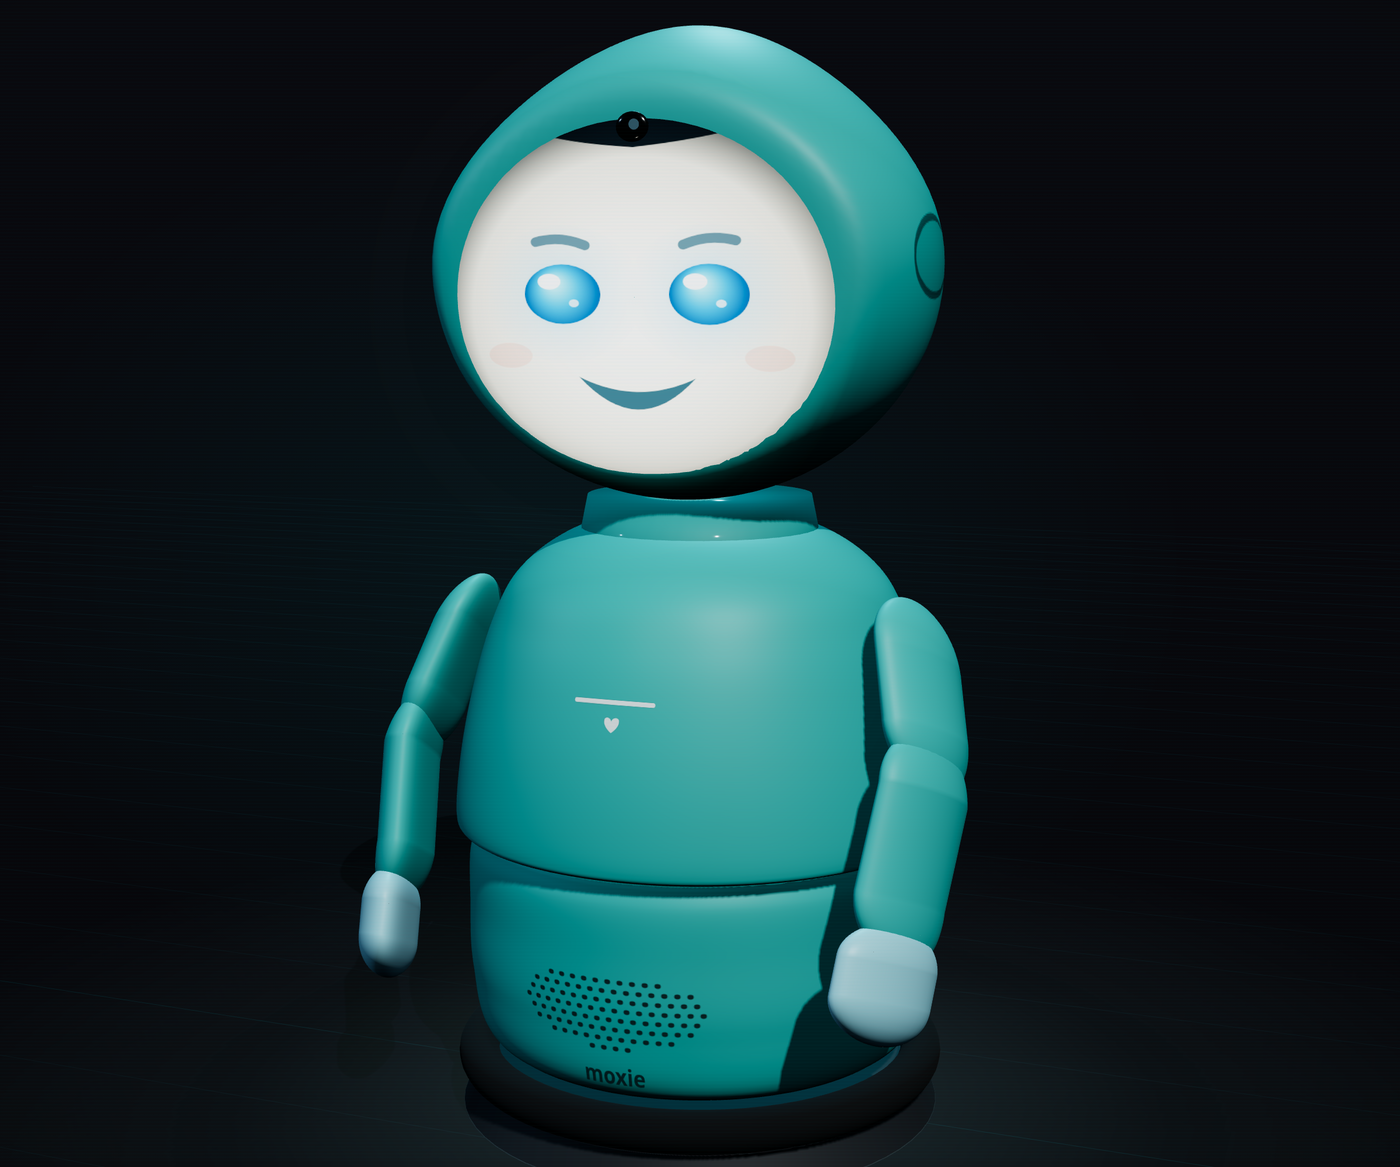
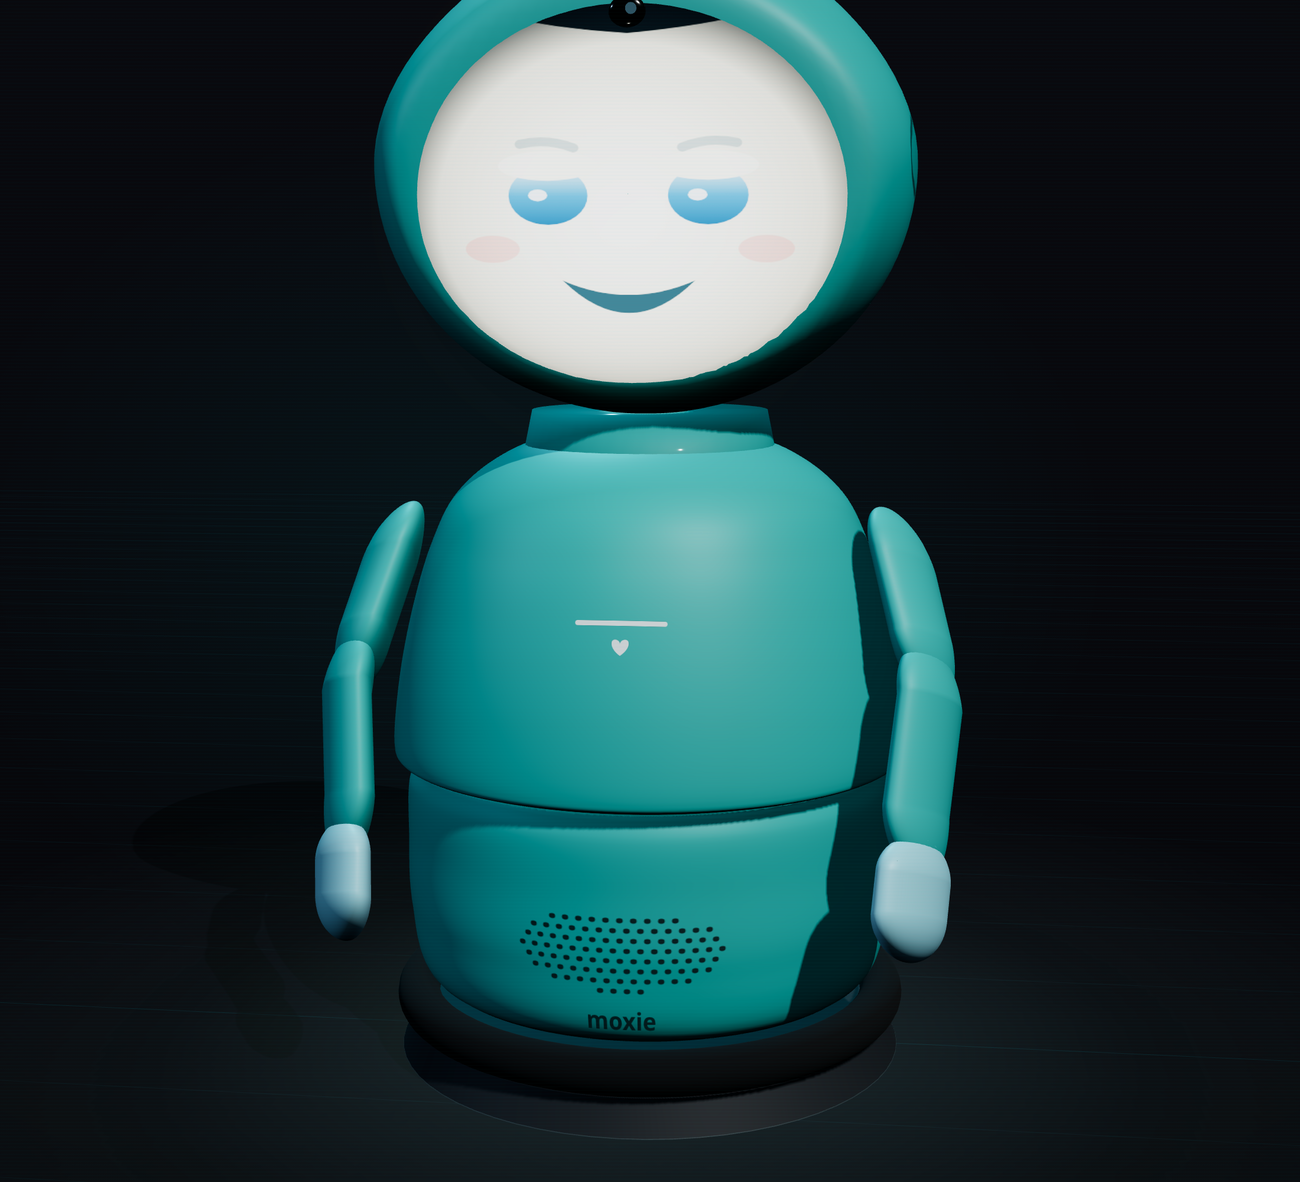
sim: genuinely cute face, glassy floating HUD, lean only the upper torso, cache-bust
Big pass from a lot of feedback.

Face — was reading as a creepy stare; now genuinely cute:
- Soft, warm, gently-LIDDED eyes (top ~22% covered by the screen colour) so Moxie
  looks kind, not wide-eyed; matte (no glow halo); one soft shine.
- Eyebrows OFF by default (prominent brows read as stern) — only shown for
  expressions that ask for them (sleep/sad/surprised/thinking).
- Soft rosy cheeks always; gentle smile.

Layout — controls now float OVER the 3D as glass, not opaque columns:
- #panel is a floating GLASS card (low-opacity + blur + rounded + margin) so the
  robot shows through; portrait is a glassy bottom drawer capped at ~40% height so
  Moxie stays visible above it.
- Camera pan RE-ENABLED (disabling it hid Moxie behind controls). Orbit still
  pivots on Moxie by default.
- Portrait: Moxie auto-centres in the space above the open drawer.

Model — body lean is anatomically correct again:
- The body mesh is SPLIT at the lean pivot. Only the UPPER torso (chest/arms/heart/
  head) tips; the LOWER torso (speaker + grille + moxie wordmark + base) stays
  planted. Both still breathe + yaw together. Fixes "lower torso leans".

Hub hero re-rendered CENTRED & front-facing with the new cute face (the default
3/4 camera had it off to the side).

Caching — the live moxie.js was current but cached 4h (Cloudflare default; the
/*.js glob never matched). App scripts get a one-time ?v cache-break in sim.html,
[…]

Changed region(s): [[0.2154, 0.0, 0.7385, 1.0]]

diff --git a/sim/web/moxie.js b/sim/web/moxie.js
@@ -103,10 +103,10 @@ const camera = new THREE.PerspectiveCamera(40, window.innerWidth / window.innerH
 camera.position.set(1.8, 2.1, 4.8);
 
 const controls = new OrbitControls(camera, renderer.domElement);
-controls.target.set(0, 1.15, 0);        // Moxie's centre — orbit always pivots here
+controls.target.set(0, 1.15, 0);        // Moxie's centre — orbit pivots here by default
 controls.enableDamping = true;
 controls.dampingFactor = 0.08;
-controls.enablePan = false;             // rotation stays centred on Moxie (no drift)
+controls.enablePan = true;              // let people reposition Moxie (e.g. out from behind a panel)
 controls.minDistance = 2.0;
 controls.maxDistance = 12.0;
 controls.maxPolarAngle = 1.48;
@@ -391,28 +391,47 @@ root.add(ring);
 const yawG = new THREE.Group();
 root.add(yawG);
 
-// The real robot's lean pivots ABOVE the speaker: the lower body (grille,
-// wordmark) stays upright while the torso above it tips. lowerG turns with the
-// body but never leans; leanG pivots at LEAN_PIVOT_Y, just above the grille.
-const LEAN_PIVOT_Y = 0.66;          // ABOVE the speaker, at the chest seam. The
-                                    // LOWER chest (speaker) stays planted; only the
-                                    // UPPER chest (arms, heart LED, head) leans.
-const lowerG = new THREE.Group();   // fixed lower section (yaws, never leans)
-yawG.add(lowerG);
+// Moxie's lean is a single joint ABOVE the speaker: only the UPPER torso (chest,
+// arms, heart, head) tips forward; the LOWER torso (speaker section + its grille
+// and wordmark) stays planted. So the body mesh is SPLIT at the pivot — lower on
+// a planted group, upper on the lean group. Both still breathe + yaw together.
+const LEAN_PIVOT_Y = 0.66;          // the chest seam, just above the speaker
 
-const leanG = new THREE.Group();
+const breatheG = new THREE.Group();          // liveness breathing (whole robot)
+yawG.add(breatheG);
+
+const lowerG = new THREE.Group();            // planted lower torso — breathes + yaws, NEVER leans
+breatheG.add(lowerG);
+
+const leanG = new THREE.Group();             // motor 6 — tips ONLY the upper torso
 leanG.position.y = LEAN_PIVOT_Y;
-yawG.add(leanG);
+breatheG.add(leanG);
 
-const breatheG = new THREE.Group();          // liveness: breathing scale/bob
-breatheG.position.y = -LEAN_PIVOT_Y;   // children keep their absolute Y
-leanG.add(breatheG);
+const upperG = new THREE.Group();            // carrier so upper parts keep their absolute Y
+upperG.position.y = -LEAN_PIVOT_Y;
+leanG.add(upperG);
 
-// Body cylinder
-const body = new THREE.Mesh(makeBodyGeometry(), shellMat);
-body.castShadow = true;
-body.receiveShadow = true;
-breatheG.add(body);
+// Split the lathe profile at the pivot; both halves share the seam radius so
+// they meet cleanly (Moxie has a real chest-divider seam right here).
+function bodyLatheFrom(profile) {
+  let g = new THREE.LatheGeometry(profile, 128);
+  g.deleteAttribute('uv'); g.deleteAttribute('normal');
+  g = mergeVertices(g, 1e-4); g.computeVertexNormals();
+  return g;
+}
+const seamR = bodyRadiusAt(LEAN_PIVOT_Y);
+const lowerProfile = bodyProfilePts.filter(p => p.y <= LEAN_PIVOT_Y)
+  .concat([new THREE.Vector2(seamR, LEAN_PIVOT_Y)]);
+const upperProfile = [new THREE.Vector2(seamR, LEAN_PIVOT_Y)]
+  .concat(bodyProfilePts.filter(p => p.y > LEAN_PIVOT_Y));
+
+const lowerBody = new THREE.Mesh(bodyLatheFrom(lowerProfile), shellMat);
+lowerBody.castShadow = true; lowerBody.receiveShadow = true;
+lowerG.add(lowerBody);
+
+const upperBody = new THREE.Mesh(bodyLatheFrom(upperProfile), shellMat);
+upperBody.castShadow = true; upperBody.receiveShadow = true;
+upperG.add(upperBody);
 
 // ---- Head: a large egg/teardrop sitting DIRECTLY on the body (no neck —
 //      the head's underside overlaps the body's rounded shoulder, leaving
@@ -438,9 +457,9 @@ const neck = new THREE.Mesh(neckGeo, new THREE.MeshPhysicalMaterial({
 neck.position.set(0, BODY_TOP - 0.05, 0);
 neck.castShadow = true;
 neck.receiveShadow = true;
-breatheG.add(neck);
+upperG.add(neck);
 
-breatheG.add(headTiltG);
+upperG.add(headTiltG);
 
 const headRollG = new THREE.Group();          // liveness-only curious head roll
 headTiltG.add(headRollG);
@@ -713,7 +732,7 @@ const grille = new THREE.Mesh(
   })
 );
 grille.position.set(0, 0.34, 0);
-breatheG.add(grille);    // printed on the body — breathes + tilts WITH it
+lowerG.add(grille);      // printed on the lower torso — planted, never leans
 
 // ---- `moxie` wordmark near the base ----
 
@@ -743,7 +762,7 @@ const wordmark = new THREE.Mesh(
   })
 );
 wordmark.position.set(0, 0.155, 0);
-breatheG.add(wordmark);  // printed on the body — breathes + tilts WITH it
+lowerG.add(wordmark);    // printed on the lower torso — planted, never leans
 
 // ---- Heart LED: a THIN white horizontal line with a TINY white heart
 //      directly beneath it, on the upper chest just under the head — a small,
@@ -803,11 +822,11 @@ const heart = new THREE.Mesh(
   heartMat);
 heart.position.set(0, 1.08, bodyRadiusAt(1.08) + 0.006);
 heart.rotation.x = -0.20;             // follows the chest's backward taper
-breatheG.add(heart);
+upperG.add(heart);
 
 const heartLight = new THREE.PointLight(0xff5577, 0, 1.2);
 heartLight.position.set(0, 1.08, bodyRadiusAt(1.08) + 0.12);
-breatheG.add(heartLight);
+upperG.add(heartLight);
 
 const heartState = { on: false, color: new THREE.Color(0xff5577) };
 
@@ -885,7 +904,7 @@ function makeArm(side) {  // side = -1 left, +1 right
   hand.receiveShadow = true;
   elbowPost.add(hand);
 
-  breatheG.add(armRoot);
+  upperG.add(armRoot);
   registerAxisNode(side > 0 ? 'armRootL (robot LEFT, +X)' : 'armRootR (robot RIGHT, -X)', armRoot);
   registerAxisNode(side > 0 ? 'shoulderL (motor 0)' : 'shoulderR (motor 2)', shoulder);
   registerAxisNode(side > 0 ? 'elbowL (spring)' : 'elbowR (spring)', elbow);
@@ -1242,81 +1261,74 @@ function drawFace(t) {
   // light up (the projector face emits), soft rounded eyebrows always present so
   // the face never looks blank, and a gentle smile.
   const ink = '#3f6f7d';                                   // mouth (soft teal)
-  const browCol = '#5f8390';                               // soft rounded brows
-  const eyeCore = '#9beeff', eyeMid = '#25a9e8', eyeDeep = '#0a5f9e';
+  // Soft, KIND eyes — friendly, never a glowing stare. A warm rounded shape with a
+  // gently lidded top so Moxie looks sweet, one soft shine, no glow halo. Brows are
+  // off by default (a blank calm face) and only appear for expressions that need them.
+  const eyeTop = '#d6f0ff', eyeBot = '#57a9dd', eyeEdge = '#3182b4';
+  const screenCol = '#fcf8f0';                              // warm screen (for the lid)
 
-  // blink factor
   let blinkF = 1;
   if (blink.active) blinkF = Math.max(0.04, 1 - Math.sin(Math.PI * blink.phase));
 
-  // eyes (idleEyes adds the liveness gaze drift on top of the expression)
-  const eyeY = 252 + (P.pupilY + idleEyes.y) * 10;
-  const eyeDX = 90;
-  const rx = 48 * P.eyeW;
-  const ry = Math.max(4, 64 * P.eyeH * blinkF);
+  const eyeY = 258 + (P.pupilY + idleEyes.y) * 10;
+  const eyeDX = 86;
+  const rx = 43 * P.eyeW;
+  const ry = Math.max(4, 56 * P.eyeH * blinkF);
   for (const s of [-1, 1]) {
-    const ex = 256 + s * eyeDX + (P.pupilX + idleEyes.x) * 12;
-    // 1) soft glow halo — the eyes emit light on the projector screen
-    if (ry > 10) {
-      const halo = fctx.createRadialGradient(ex, eyeY, Math.min(rx, ry) * 0.3, ex, eyeY, rx * 2.1);
-      halo.addColorStop(0, 'rgba(90,210,255,0.50)');
-      halo.addColorStop(0.45, 'rgba(60,180,240,0.18)');
-      halo.addColorStop(1, 'rgba(60,180,240,0)');
-      fctx.fillStyle = halo;
-      fctx.beginPath();
-      fctx.ellipse(ex, eyeY, rx * 2.1, Math.max(ry, rx) * 1.9, 0, 0, Math.PI * 2);
-      fctx.fill();
-    }
-    // 2) eye body — vibrant cyan→blue gradient, bright core (glows)
-    const eg = fctx.createRadialGradient(ex - rx * 0.22, eyeY - ry * 0.38, Math.min(rx, ry) * 0.12,
-                                         ex, eyeY, Math.max(rx, ry) * 1.05);
-    eg.addColorStop(0, eyeCore);
-    eg.addColorStop(0.5, eyeMid);
-    eg.addColorStop(1, eyeDeep);
+    const ex = 256 + s * eyeDX + (P.pupilX + idleEyes.x) * 10;
+    // eye body: soft vertical gradient (light on top, deeper below) — matte, no glow
+    const eg = fctx.createLinearGradient(ex, eyeY - ry, ex, eyeY + ry);
+    eg.addColorStop(0, eyeTop);
+    eg.addColorStop(0.5, eyeBot);
+    eg.addColorStop(1, eyeEdge);
     fctx.fillStyle = eg;
     fctx.beginPath();
     fctx.ellipse(ex, eyeY, rx, ry, 0, 0, Math.PI * 2);
     fctx.fill();
-    // 3) glossy highlights (big upper-left + tiny lower-right) — cute + alive
-    if (ry > 14) {
-      fctx.fillStyle = 'rgba(255,255,255,0.96)';
+    if (ry > 16) {
+      // gentle upper lid: cover the top ~22% with the warm screen colour so the eye
+      // reads as a soft, kind curve instead of a wide-open stare
+      fctx.fillStyle = screenCol;
       fctx.beginPath();
-      fctx.ellipse(ex - rx * 0.34 + P.pupilX * 6, eyeY - ry * 0.42 + P.pupilY * 4,
-                   rx * 0.30, ry * 0.26, 0, 0, Math.PI * 2);
+      fctx.ellipse(ex, eyeY - ry * 1.02, rx * 1.25, ry * 0.5, 0, 0, Math.PI * 2);
       fctx.fill();
-      fctx.fillStyle = 'rgba(255,255,255,0.72)';
+      // one soft shine, upper-inner
+      fctx.fillStyle = 'rgba(255,255,255,0.9)';
       fctx.beginPath();
-      fctx.ellipse(ex + rx * 0.30, eyeY + ry * 0.30, rx * 0.13, ry * 0.13, 0, 0, Math.PI * 2);
+      fctx.ellipse(ex - rx * 0.26 + P.pupilX * 5, eyeY - ry * 0.02, rx * 0.24, ry * 0.2, 0, 0, Math.PI * 2);
       fctx.fill();
     }
   }
 
-  // cute eyebrows — ALWAYS present (a soft rounded arch), so the face never looks
-  // blank; expression only modulates the lift/tilt on top of the friendly base.
-  {
-    fctx.strokeStyle = browCol;
-    fctx.lineWidth = 13;
+  // eyebrows — OFF for the calm/happy face (prominent brows read as stern). Only
+  // shown when an expression asks for them (sleep, sad, surprised, thinking).
+  const browAmt = Math.min(1, P.browRaise + Math.abs(P.browTilt) + P.browAsym);
+  if (browAmt > 0.05) {
+    fctx.strokeStyle = '#7a97a1';
+    fctx.globalAlpha = Math.min(1, browAmt + 0.25);
+    fctx.lineWidth = 11;
     fctx.lineCap = 'round';
-    fctx.lineJoin = 'round';
     for (const s of [-1, 1]) {
       const asymLift = P.browAsym * (s < 0 ? 16 : -2);
-      const by = eyeY - ry - 26 - P.browRaise * 18 - asymLift;   // just above the eye
-      const tilt = P.browTilt * 15 * -s;                          // sad: inner ends up
-      const x0 = 256 + s * (eyeDX - 30), x1 = 256 + s * (eyeDX + 32);
+      const by = eyeY - ry - 24 - P.browRaise * 18 - asymLift;
+      const tilt = P.browTilt * 14 * -s;                          // sad: inner ends up
+      const x0 = 256 + s * (eyeDX - 28), x1 = 256 + s * (eyeDX + 30);
       const midX = 256 + s * eyeDX;
       fctx.beginPath();
-      fctx.moveTo(x0, by + 5 + tilt * -1);                        // outer end
-      fctx.quadraticCurveTo(midX, by - 9 + tilt * 0.4, x1, by + tilt);  // gentle upward arch
+      fctx.moveTo(x0, by + 5 + tilt * -1);
+      fctx.quadraticCurveTo(midX, by - 8 + tilt * 0.4, x1, by + tilt);   // gentle arch
       fctx.stroke();
     }
+    fctx.globalAlpha = 1;
   }
 
-  // blush when very happy
-  if (P.mouthCurve > 0.55) {
-    fctx.fillStyle = `rgba(233, 150, 138, ${0.30 * (P.mouthCurve - 0.55) / 0.45})`;
+  // soft rosy cheeks — always a hint, warmer when smiling (adds the "aww" factor)
+  {
+    const cheekA = Math.min(0.4, 0.15 + 0.4 * Math.max(0, P.mouthCurve - 0.15));
+    fctx.fillStyle = `rgba(244, 156, 156, ${cheekA})`;
     for (const s of [-1, 1]) {
       fctx.beginPath();
-      fctx.ellipse(256 + s * 160, 335, 29, 17, 0, 0, Math.PI * 2);
+      fctx.ellipse(256 + s * 148, eyeY + 66, 30, 17, 0, 0, Math.PI * 2);
       fctx.fill();
     }
   }
@@ -1761,7 +1773,7 @@ function animate() {
   // breathing — slow body scale + vertical bob (~4.3 s cycle)
   const breath = Math.sin(t * (Math.PI * 2 / 4.3)) * liveness.master;
   breatheG.scale.set(1 - 0.004 * breath, 1 + 0.011 * breath, 1 - 0.004 * breath);
-  breatheG.position.y = -LEAN_PIVOT_Y + 0.005 * breath;   // keep the pivot offset
+  breatheG.position.y = 0.005 * breath;   // gentle vertical bob
 
   // scene lighting eases toward the commanded level
   sceneLight.current += (sceneLight.level - sceneLight.current) * (1 - Math.exp(-dt * 5));
@@ -1811,23 +1823,26 @@ animate();
 // so Moxie sits centred in the visible area to the LEFT of it (instead of being
 // half-hidden behind the panel). On phone/drawer widths the panel isn't a side
 // column, so no offset.
+// Keep Moxie centred in the *visible* area. Landscape: the glassy panels float
+// over the 3D (Moxie shows through), so no shift. Portrait: when the bottom
+// controls drawer is open it centres Moxie in the space ABOVE the drawer.
 function applyStageOffset() {
   const W = window.innerWidth, H = window.innerHeight;
   camera.aspect = W / H;
-  // Centre Moxie in the OPEN part of the viewport (the area left of the docked
-  // control panel). Only when the panel is a right-side column — in drawer mode
-  // (panel is a bottom sheet) Moxie stays centred in the full viewport.
+  camera.clearViewOffset();
   const panel = document.getElementById('panel');
-  let shift = 0;
-  if (panel) {
+  const hud = document.getElementById('hud');
+  if (panel && hud && !hud.classList.contains('rail-closed')) {
     const r = panel.getBoundingClientRect();
-    const isSideColumn = r.width > 0 && r.left > W * 0.3 && r.top < H * 0.4 && r.height > H * 0.5;
-    if (isSideColumn) shift = (W - r.left) / 2;   // open area = [0, r.left]; centre = r.left/2
+    const isBottomDrawer = r.height > 40 && r.bottom >= H - 6 && r.width > W * 0.6 && r.top > H * 0.35;
+    if (isBottomDrawer) {
+      const shiftY = (H - r.top) / 2;      // open area = [0, r.top]; centre Moxie there
+      camera.setViewOffset(W, H, 0, shiftY, W, H);
+    }
   }
-  if (shift > 8) camera.setViewOffset(W, H, shift, 0, W, H);
-  else camera.clearViewOffset();
   camera.updateProjectionMatrix();
   renderer.setSize(W, H);
 }
 window.addEventListener('resize', applyStageOffset);
+window.__applyStageOffset = applyStageOffset;   // re-run when the drawer toggles
 applyStageOffset();

diff --git a/sim/web/style.css b/sim/web/style.css
@@ -357,9 +357,14 @@ body[data-bus="wait"] #link-label { color: var(--cyan); }
   display: flex;
   flex-direction: column;
   min-height: 0;
-  background: linear-gradient(180deg, rgba(6, 6, 9, 0.66), rgba(6, 6, 9, 0.82));
-  backdrop-filter: blur(12px);
-  border-left: 1px solid var(--hairline);
+  margin: 10px 10px 10px 0;               /* float, don't touch the edges */
+  background: rgba(9, 12, 19, 0.30);       /* GLASS — the 3D shows through */
+  backdrop-filter: blur(22px) saturate(1.15);
+  -webkit-backdrop-filter: blur(22px) saturate(1.15);
+  border: 1px solid rgba(255, 255, 255, 0.08);
+  border-radius: 14px;
+  box-shadow: 0 12px 44px rgba(0, 0, 0, 0.42);
+  overflow: hidden;
 }
 #rail-scroll {
   min-height: 0;
@@ -831,11 +836,16 @@ body[data-bus="wait"] #bus-status::before { background: var(--cyan); box-shadow:
   .disclaimer { font-size: 11px; }
 
   #panel {
-    border-left: none;
-    border-top: 1px solid var(--hairline);
-    background: linear-gradient(180deg, rgba(6, 6, 9, 0.88), rgba(6, 6, 9, 0.94));
-    max-height: 60vh;
+    margin: 0 8px 8px;                      /* float above the bottom edge */
+    border: 1px solid rgba(255, 255, 255, 0.08);
+    border-radius: 14px;
+    background: rgba(9, 12, 19, 0.34);      /* GLASS, so Moxie shows through */
+    backdrop-filter: blur(22px) saturate(1.15);
+    -webkit-backdrop-filter: blur(22px) saturate(1.15);
+    max-height: 42vh;                       /* never cover more than ~40% — Moxie stays visible */
   }
+  /* when the drawer is open, keep the stage area tall so Moxie isn't squeezed */
+  #hud:not(.rail-closed) { grid-template-rows: auto auto minmax(0, 1fr) auto; }
   #rail-toggle { display: flex; }
   #hud.rail-closed #rail-scroll { display: none; }
   #hud.rail-closed #rail-toggle { border-bottom: none; }
@@ -907,7 +917,7 @@ body[data-mic="on"] #mic-btn::before { content: "● "; }
   margin-bottom: var(--sp-3);
 }
 /* Tall enough for 2 columns to hold every control with no scroll. */
-@media (min-width: 1360px) and (min-height: 1030px) {
+@media (min-width: 1360px) and (min-height: 1130px) {
   :root { --rail-w: clamp(600px, 34vw, 720px); }
   #hud { grid-template-columns: minmax(440px, 1fr) var(--rail-w); }
   #rail-scroll {
@@ -916,7 +926,7 @@ body[data-mic="on"] #mic-btn::before { content: "● "; }
   #rail-scroll > .group { break-inside: avoid; -webkit-column-break-inside: avoid; margin-bottom: var(--sp-3); }
 }
 /* Shorter but wide → 3 columns so it still fits with no scroll. */
-@media (min-width: 1360px) and (max-height: 1029px) {
+@media (min-width: 1360px) and (max-height: 1129px) {
   :root { --rail-w: clamp(860px, 54vw, 1020px); }
   #hud { grid-template-columns: minmax(400px, 1fr) var(--rail-w); }
   #rail-scroll {

diff --git a/sim/web/sim.html b/sim/web/sim.html
@@ -223,14 +223,14 @@
 
 </div>
 
-<script type="module" src="moxie.js"></script>
+<script type="module" src="moxie.js?v=cute2"></script>
 <script src="./vendor/mqtt.min.js"></script>
 <script src="./vendor/qrcode.js"></script>
-<script src="qr.js"></script>
-<script src="stub.js"></script>
-<script src="bridge.js"></script>
-<script src="audio.js"></script>
-<script src="mic.js"></script>
+<script src="qr.js?v=cute2"></script>
+<script src="stub.js?v=cute2"></script>
+<script src="bridge.js?v=cute2"></script>
+<script src="audio.js?v=cute2"></script>
+<script src="mic.js?v=cute2"></script>
 <script>
 /* HUD glue — mirrors the #bus-status text (written by bridge.js) onto
  * body[data-bus] so CSS can color the status line, the topbar link lamp,
@@ -368,9 +368,10 @@
   mq.addEventListener("change", function (e) { if (!e.matches) setClosed(false); });
   t.addEventListener("click", function () {
     setClosed(!hud.classList.contains("rail-closed"));
+    if (window.__applyStageOffset) requestAnimationFrame(function(){ requestAnimationFrame(window.__applyStageOffset); });
   });
 })();
 </script>
-<script src="env.js"></script>
+<script src="env.js?v=cute2"></script>
 </body>
 </html>
